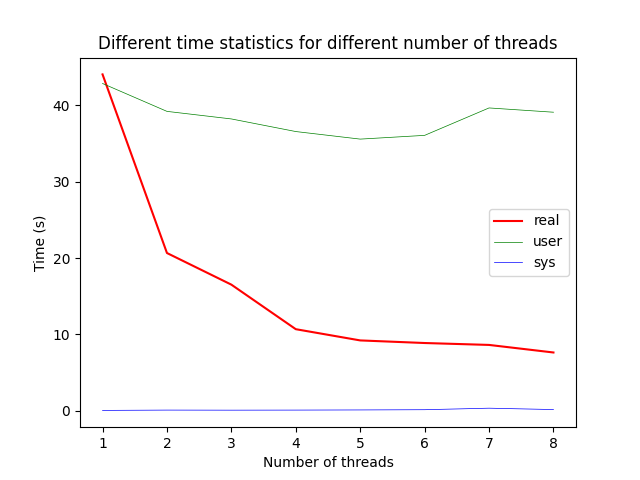
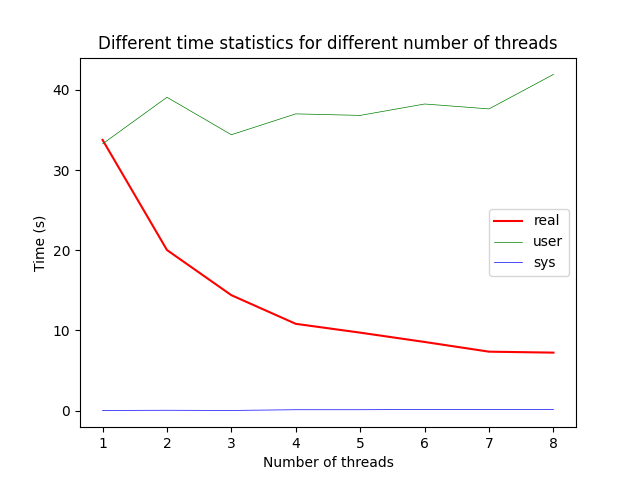
bufferSize = Nbr of producer + better management of the buffer

diff --git a/main.c b/main.c
@@ -27,7 +27,7 @@ uint64_t iterationNumber;
 squared_distance_func_t generic_func;
 
 // Threads
-#define N 2 // size of the buffer
+uint32_t bufferSize;
 pthread_mutex_t mutex;
 sem_t empty;
 sem_t full;
@@ -36,7 +36,7 @@ buffer_t *buffer;
 /**
  * @param indexes: an array containing the starting index (included) and the end (excluded)
  * The function calculates a kMeans problem, one by one from [start: end[ and put it on the buffer
- * each time the calculus is done
+ * each time kMeans problem has been calculated
  */
 void *produce(void *indexes) {
     for (uint32_t i = ((uint32_t *) indexes)[0]; i < ((uint32_t *) indexes)[1]; ++i) {
@@ -54,7 +54,7 @@ void *produce(void *indexes) {
         (buffer->clustersOfInstances)[buffer->head] = clusters;
         (buffer->distortionValues)[buffer->head] = distortionValue;
         (buffer->indexes)[buffer->head] = i;
-        buffer->head = (buffer->head + 1) % N;
+        buffer->head = (buffer->head + 1) % bufferSize;
         if (pthread_mutex_unlock(&mutex) != 0) return (void *) -1;
         sem_post(&full);
     }
@@ -68,27 +68,39 @@ void *consume() {
     uint64_t *nbOfElemToConsume = malloc(sizeof(uint64_t));
     if (nbOfElemToConsume == NULL) return NULL;
     *nbOfElemToConsume = iterationNumber;
+
+    kMeans_t **kMeansSimulation = malloc(sizeof(kMeans_t *));
+    point_t ***clusters = malloc(sizeof(point_t **));
+
+    if (kMeansSimulation == NULL || clusters == NULL) return (void *) -1;
+    uint64_t distortionValue;
+
     while (*nbOfElemToConsume > 0) {
+        // We wait for a kMeans problem
         sem_wait(&full);
         if (pthread_mutex_lock(&mutex) != 0) return (void *) -1;
         uint32_t i = (buffer->indexes)[buffer->tail];
-        kMeans_t *kMeansSimulation = (buffer->kMeansInstances)[buffer->tail];
-        point_t **clusters = (buffer->clustersOfInstances)[buffer->tail];
-        uint64_t distortionValue = (buffer->distortionValues)[buffer->tail];
-        if (writeOneKMeans(kMeansSimulation, programArguments.quiet, programArguments.output_stream,
-                           startingCentroids[i], clusters, distortionValue) == -1) {
-            clean(kMeansSimulation);
+        *kMeansSimulation = (buffer->kMeansInstances)[buffer->tail];
+        *clusters = (buffer->clustersOfInstances)[buffer->tail];
+        distortionValue = (buffer->distortionValues)[buffer->tail];
+        buffer->tail = (buffer->tail + 1) % bufferSize;
+        if (pthread_mutex_unlock(&mutex) != 0) return (void *) -1;
+        sem_post(&empty);
+
+        // We write the kMeans problem into the csv file
+        if (writeOneKMeans(*kMeansSimulation, programArguments.quiet, programArguments.output_stream,
+                           startingCentroids[i], *clusters, distortionValue) == -1) {
+            clean(*kMeansSimulation);
             fullClean(generalData, startingCentroids, iterationNumber, programArguments, buffer);
             return (void *) -1;
         }
-        buffer->tail = (buffer->tail + 1) % N;
-        clean(kMeansSimulation);
-        if (pthread_mutex_unlock(&mutex) != 0) return (void *) -1;
-        sem_post(&empty);
+        clean(*kMeansSimulation);
         (*nbOfElemToConsume)--;
     }
     if (fprintf(programArguments.output_stream, "\n") < 0) return (void *) -1;
     free(nbOfElemToConsume);
+    free(kMeansSimulation);
+    free(clusters);
     return NULL;
 }
 
@@ -135,9 +147,10 @@ int main(int argc, char *argv[]) {
     }
 
     // Setup of the threads
-    buffer = createBuffer((uint8_t) N);
+    bufferSize = nThreads;
+    buffer = createBuffer(bufferSize);
     if (buffer == NULL || pthread_mutex_init(&mutex, NULL) != 0 ||
-        sem_init(&empty, 0, N) != 0 || sem_init(&full, 0, 0) != 0) {
+        sem_init(&empty, 0, bufferSize) != 0 || sem_init(&full, 0, 0) != 0) {
         fullClean(generalData, startingCentroids, iterationNumber, programArguments, buffer);
         return -1;
     }

diff --git a/src/buffer.c b/src/buffer.c
@@ -1,14 +1,18 @@
 #include "../headers/buffer.h"
 
-buffer_t *createBuffer(uint8_t bufferSize) {
+buffer_t *createBuffer(uint32_t bufferSize) {
     buffer_t *buffer = malloc(sizeof(buffer_t));
     if (buffer == NULL) return NULL;
+
     buffer->kMeansInstances = malloc(bufferSize * sizeof(kMeans_t *));
     if (buffer->kMeansInstances == NULL) return NULL;
+
     buffer->clustersOfInstances = malloc(bufferSize * sizeof(point_t **));
     if (buffer->clustersOfInstances == NULL) return NULL;
-    buffer->distortionValues = malloc(bufferSize * sizeof(int64_t));
+
+    buffer->distortionValues = malloc(bufferSize * sizeof(uint64_t));
     if (buffer->distortionValues == NULL) return NULL;
+
     buffer->indexes = malloc(bufferSize * sizeof(uint32_t));
     if (buffer->indexes == NULL) return NULL;
     buffer->head = 0;

diff --git a/headers/buffer.h b/headers/buffer.h
@@ -17,6 +17,6 @@ typedef struct {
  * @param bufferSize (because we only have one consumer thread, it's useless to create a large buffer)
  * @return the buffer used by our threads in the producer/consumer process
  */
-buffer_t *createBuffer(uint8_t bufferSize);
+buffer_t *createBuffer(uint32_t bufferSize);
 
 #endif //BUFFER_H
